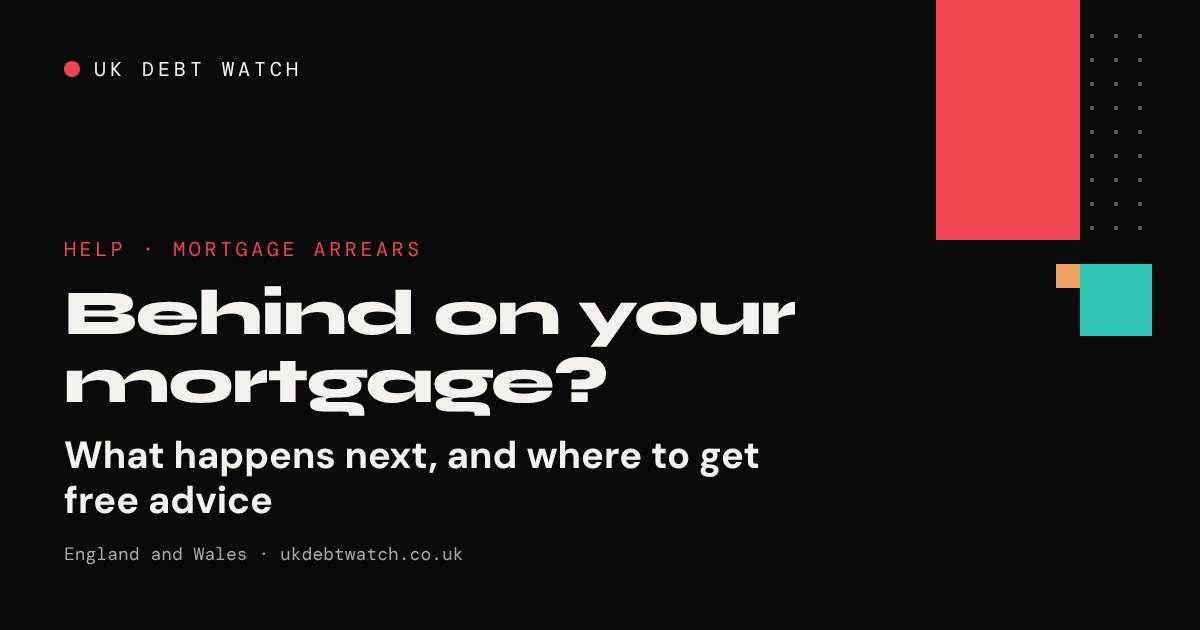
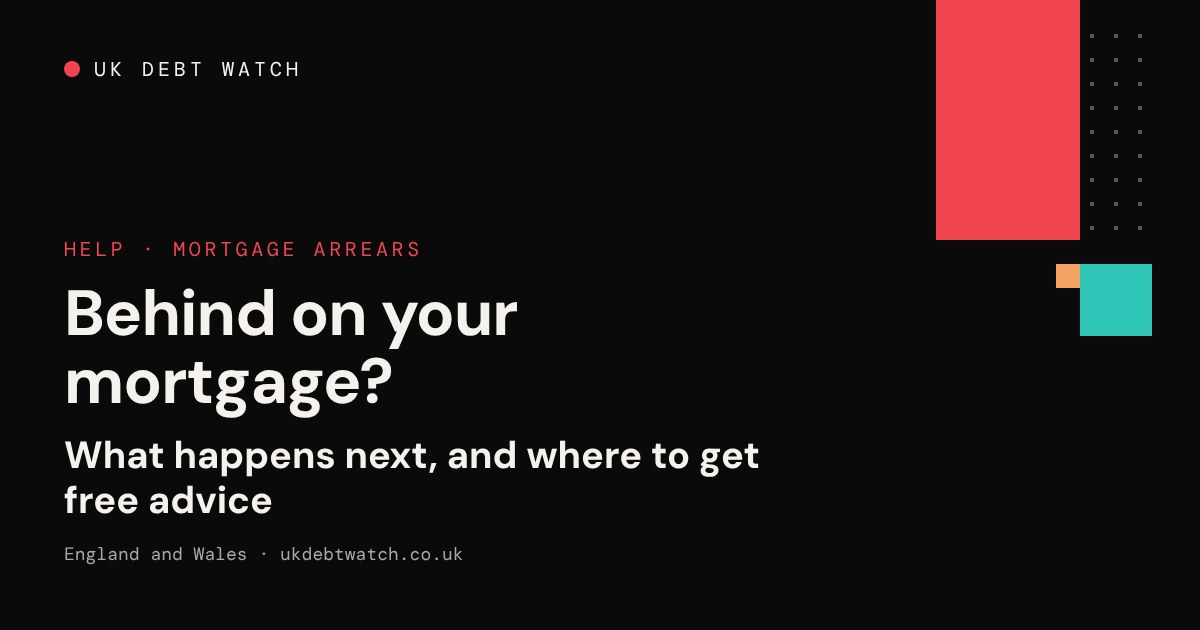
Reading pages: titles in DM Sans Bold instead of Syne
Syne 800 is too wide and heavy on the light reading pages (titles ran to
three lines). Reading pages and About/Contact/Privacy/404 now use DM Sans
700; Syne stays on the dark data pages. Help share image re-rendered.

Claude-Session: https://claude.ai/code/session_01PUZN8KSCxiFmz3TeaF9yF5

Changed region(s): [[0.0617, 0.4524, 0.6783, 0.6635]]

diff --git a/404.html b/404.html
@@ -47,7 +47,7 @@ html{-webkit-text-size-adjust:100%}
 body{margin:0;background:var(--ground);color:var(--ink);font-family:'DM Sans',system-ui,-apple-system,'Segoe UI',sans-serif;min-height:100vh;display:flex;flex-direction:column}
 main{width:100%;max-width:728px;margin:0 auto;padding:56px 24px 72px}
 .eyebrow{font-family:'DM Mono',ui-monospace,Menlo,monospace;font-size:13px;letter-spacing:.2em;text-transform:uppercase;color:var(--red-text);margin:0 0 16px}
-h1{font-family:Syne,'DM Sans',sans-serif;font-weight:800;font-size:44px;line-height:1.1;margin:0 0 20px;color:#111}
+h1{font-family:'DM Sans',system-ui,sans-serif;font-weight:700;font-size:44px;line-height:1.12;letter-spacing:-.015em;margin:0 0 20px;color:#111}
 .lede{font-size:20px;line-height:1.55;color:#3d3d3d;margin:0 0 20px}
 .byline{font-family:'DM Mono',ui-monospace,Menlo,monospace;font-size:13px;color:var(--ink-muted);border-bottom:1px solid var(--rule);padding-bottom:20px;margin:0 0 32px}
 h2{font-size:26px;line-height:1.25;font-weight:700;margin:40px 0 12px;color:#111}

diff --git a/about/index.html b/about/index.html
@@ -47,7 +47,7 @@ html{-webkit-text-size-adjust:100%}
 body{margin:0;background:var(--ground);color:var(--ink);font-family:'DM Sans',system-ui,-apple-system,'Segoe UI',sans-serif;min-height:100vh;display:flex;flex-direction:column}
 main{width:100%;max-width:728px;margin:0 auto;padding:56px 24px 72px}
 .eyebrow{font-family:'DM Mono',ui-monospace,Menlo,monospace;font-size:13px;letter-spacing:.2em;text-transform:uppercase;color:var(--red-text);margin:0 0 16px}
-h1{font-family:Syne,'DM Sans',sans-serif;font-weight:800;font-size:44px;line-height:1.1;margin:0 0 20px;color:#111}
+h1{font-family:'DM Sans',system-ui,sans-serif;font-weight:700;font-size:44px;line-height:1.12;letter-spacing:-.015em;margin:0 0 20px;color:#111}
 .lede{font-size:20px;line-height:1.55;color:#3d3d3d;margin:0 0 20px}
 .byline{font-family:'DM Mono',ui-monospace,Menlo,monospace;font-size:13px;color:var(--ink-muted);border-bottom:1px solid var(--rule);padding-bottom:20px;margin:0 0 32px}
 h2{font-size:26px;line-height:1.25;font-weight:700;margin:40px 0 12px;color:#111}

diff --git a/contact/index.html b/contact/index.html
@@ -47,7 +47,7 @@ html{-webkit-text-size-adjust:100%}
 body{margin:0;background:var(--ground);color:var(--ink);font-family:'DM Sans',system-ui,-apple-system,'Segoe UI',sans-serif;min-height:100vh;display:flex;flex-direction:column}
 main{width:100%;max-width:728px;margin:0 auto;padding:56px 24px 72px}
 .eyebrow{font-family:'DM Mono',ui-monospace,Menlo,monospace;font-size:13px;letter-spacing:.2em;text-transform:uppercase;color:var(--red-text);margin:0 0 16px}
-h1{font-family:Syne,'DM Sans',sans-serif;font-weight:800;font-size:44px;line-height:1.1;margin:0 0 20px;color:#111}
+h1{font-family:'DM Sans',system-ui,sans-serif;font-weight:700;font-size:44px;line-height:1.12;letter-spacing:-.015em;margin:0 0 20px;color:#111}
 .lede{font-size:20px;line-height:1.55;color:#3d3d3d;margin:0 0 20px}
 .byline{font-family:'DM Mono',ui-monospace,Menlo,monospace;font-size:13px;color:var(--ink-muted);border-bottom:1px solid var(--rule);padding-bottom:20px;margin:0 0 32px}
 h2{font-size:26px;line-height:1.25;font-weight:700;margin:40px 0 12px;color:#111}

diff --git a/privacy/index.html b/privacy/index.html
@@ -47,7 +47,7 @@ html{-webkit-text-size-adjust:100%}
 body{margin:0;background:var(--ground);color:var(--ink);font-family:'DM Sans',system-ui,-apple-system,'Segoe UI',sans-serif;min-height:100vh;display:flex;flex-direction:column}
 main{width:100%;max-width:728px;margin:0 auto;padding:56px 24px 72px}
 .eyebrow{font-family:'DM Mono',ui-monospace,Menlo,monospace;font-size:13px;letter-spacing:.2em;text-transform:uppercase;color:var(--red-text);margin:0 0 16px}
-h1{font-family:Syne,'DM Sans',sans-serif;font-weight:800;font-size:44px;line-height:1.1;margin:0 0 20px;color:#111}
+h1{font-family:'DM Sans',system-ui,sans-serif;font-weight:700;font-size:44px;line-height:1.12;letter-spacing:-.015em;margin:0 0 20px;color:#111}
 .lede{font-size:20px;line-height:1.55;color:#3d3d3d;margin:0 0 20px}
 .byline{font-family:'DM Mono',ui-monospace,Menlo,monospace;font-size:13px;color:var(--ink-muted);border-bottom:1px solid var(--rule);padding-bottom:20px;margin:0 0 32px}
 h2{font-size:26px;line-height:1.25;font-weight:700;margin:40px 0 12px;color:#111}

diff --git a/articles/index.html b/articles/index.html
@@ -344,7 +344,7 @@ a:focus-visible,button:focus-visible,summary:focus-visible{outline-color:#0e6f68
 .hero,.intro{background:transparent;border-bottom:0;text-align:left;max-width:776px;margin:0 auto;padding:56px 24px 8px;width:100%}
 .hero::before,.intro::before{display:none}
 .hero .eyebrow,.intro .eyebrow{font-family:'DM Mono',ui-monospace,Menlo,monospace;font-size:13px;letter-spacing:.2em;color:#b3262f;margin:0 0 16px}
-.hero h1,.intro h1,h1{font-family:Syne,'DM Sans',sans-serif;font-weight:800;font-size:44px;line-height:1.1;letter-spacing:0;color:#111;max-width:none;margin:0 0 20px;text-align:left}
+.hero h1,.intro h1,h1{font-family:'DM Sans',system-ui,sans-serif;font-weight:700;font-size:44px;line-height:1.12;letter-spacing:-.015em;color:#111;max-width:none;margin:0 0 20px;text-align:left}
 .hero h1 em,.intro h1 em{color:#b3262f}
 .lede,.intro p{font-size:20px;line-height:1.55;color:#3d3d3d;max-width:none;margin:0 0 16px;text-align:left}
 .intro p b{color:#111;font-weight:700}

diff --git a/billionaires-leaving-uk/index.html b/billionaires-leaving-uk/index.html
@@ -325,7 +325,7 @@ a:focus-visible,button:focus-visible,summary:focus-visible{outline-color:#0e6f68
 .hero,.intro{background:transparent;border-bottom:0;text-align:left;max-width:776px;margin:0 auto;padding:56px 24px 8px;width:100%}
 .hero::before,.intro::before{display:none}
 .hero .eyebrow,.intro .eyebrow{font-family:'DM Mono',ui-monospace,Menlo,monospace;font-size:13px;letter-spacing:.2em;color:#b3262f;margin:0 0 16px}
-.hero h1,.intro h1,h1{font-family:Syne,'DM Sans',sans-serif;font-weight:800;font-size:44px;line-height:1.1;letter-spacing:0;color:#111;max-width:none;margin:0 0 20px;text-align:left}
+.hero h1,.intro h1,h1{font-family:'DM Sans',system-ui,sans-serif;font-weight:700;font-size:44px;line-height:1.12;letter-spacing:-.015em;color:#111;max-width:none;margin:0 0 20px;text-align:left}
 .hero h1 em,.intro h1 em{color:#b3262f}
 .lede,.intro p{font-size:20px;line-height:1.55;color:#3d3d3d;max-width:none;margin:0 0 16px;text-align:left}
 .intro p b{color:#111;font-weight:700}

diff --git a/help/index.html b/help/index.html
@@ -246,7 +246,7 @@ a:focus-visible,button:focus-visible,summary:focus-visible{outline-color:#0e6f68
 .hero,.intro{background:transparent;border-bottom:0;text-align:left;max-width:776px;margin:0 auto;padding:56px 24px 8px;width:100%}
 .hero::before,.intro::before{display:none}
 .hero .eyebrow,.intro .eyebrow{font-family:'DM Mono',ui-monospace,Menlo,monospace;font-size:13px;letter-spacing:.2em;color:#b3262f;margin:0 0 16px}
-.hero h1,.intro h1,h1{font-family:Syne,'DM Sans',sans-serif;font-weight:800;font-size:44px;line-height:1.1;letter-spacing:0;color:#111;max-width:none;margin:0 0 20px;text-align:left}
+.hero h1,.intro h1,h1{font-family:'DM Sans',system-ui,sans-serif;font-weight:700;font-size:44px;line-height:1.12;letter-spacing:-.015em;color:#111;max-width:none;margin:0 0 20px;text-align:left}
 .hero h1 em,.intro h1 em{color:#b3262f}
 .lede,.intro p{font-size:20px;line-height:1.55;color:#3d3d3d;max-width:none;margin:0 0 16px;text-align:left}
 .intro p b{color:#111;font-weight:700}

diff --git a/uk-debt-interest/index.html b/uk-debt-interest/index.html
@@ -344,7 +344,7 @@ a:focus-visible,button:focus-visible,summary:focus-visible{outline-color:#0e6f68
 .hero,.intro{background:transparent;border-bottom:0;text-align:left;max-width:776px;margin:0 auto;padding:56px 24px 8px;width:100%}
 .hero::before,.intro::before{display:none}
 .hero .eyebrow,.intro .eyebrow{font-family:'DM Mono',ui-monospace,Menlo,monospace;font-size:13px;letter-spacing:.2em;color:#b3262f;margin:0 0 16px}
-.hero h1,.intro h1,h1{font-family:Syne,'DM Sans',sans-serif;font-weight:800;font-size:44px;line-height:1.1;letter-spacing:0;color:#111;max-width:none;margin:0 0 20px;text-align:left}
+.hero h1,.intro h1,h1{font-family:'DM Sans',system-ui,sans-serif;font-weight:700;font-size:44px;line-height:1.12;letter-spacing:-.015em;color:#111;max-width:none;margin:0 0 20px;text-align:left}
 .hero h1 em,.intro h1 em{color:#b3262f}
 .lede,.intro p{font-size:20px;line-height:1.55;color:#3d3d3d;max-width:none;margin:0 0 16px;text-align:left}
 .intro p b{color:#111;font-weight:700}

diff --git a/uk-debt-vs-other-countries/index.html b/uk-debt-vs-other-countries/index.html
@@ -344,7 +344,7 @@ a:focus-visible,button:focus-visible,summary:focus-visible{outline-color:#0e6f68
 .hero,.intro{background:transparent;border-bottom:0;text-align:left;max-width:776px;margin:0 auto;padding:56px 24px 8px;width:100%}
 .hero::before,.intro::before{display:none}
 .hero .eyebrow,.intro .eyebrow{font-family:'DM Mono',ui-monospace,Menlo,monospace;font-size:13px;letter-spacing:.2em;color:#b3262f;margin:0 0 16px}
-.hero h1,.intro h1,h1{font-family:Syne,'DM Sans',sans-serif;font-weight:800;font-size:44px;line-height:1.1;letter-spacing:0;color:#111;max-width:none;margin:0 0 20px;text-align:left}
+.hero h1,.intro h1,h1{font-family:'DM Sans',system-ui,sans-serif;font-weight:700;font-size:44px;line-height:1.12;letter-spacing:-.015em;color:#111;max-width:none;margin:0 0 20px;text-align:left}
 .hero h1 em,.intro h1 em{color:#b3262f}
 .lede,.intro p{font-size:20px;line-height:1.55;color:#3d3d3d;max-width:none;margin:0 0 16px;text-align:left}
 .intro p b{color:#111;font-weight:700}

diff --git a/who-owns-uk-debt/index.html b/who-owns-uk-debt/index.html
@@ -344,7 +344,7 @@ a:focus-visible,button:focus-visible,summary:focus-visible{outline-color:#0e6f68
 .hero,.intro{background:transparent;border-bottom:0;text-align:left;max-width:776px;margin:0 auto;padding:56px 24px 8px;width:100%}
 .hero::before,.intro::before{display:none}
 .hero .eyebrow,.intro .eyebrow{font-family:'DM Mono',ui-monospace,Menlo,monospace;font-size:13px;letter-spacing:.2em;color:#b3262f;margin:0 0 16px}
-.hero h1,.intro h1,h1{font-family:Syne,'DM Sans',sans-serif;font-weight:800;font-size:44px;line-height:1.1;letter-spacing:0;color:#111;max-width:none;margin:0 0 20px;text-align:left}
+.hero h1,.intro h1,h1{font-family:'DM Sans',system-ui,sans-serif;font-weight:700;font-size:44px;line-height:1.12;letter-spacing:-.015em;color:#111;max-width:none;margin:0 0 20px;text-align:left}
 .hero h1 em,.intro h1 em{color:#b3262f}
 .lede,.intro p{font-size:20px;line-height:1.55;color:#3d3d3d;max-width:none;margin:0 0 16px;text-align:left}
 .intro p b{color:#111;font-weight:700}

diff --git a/_tools/reading.py b/_tools/reading.py
@@ -22,7 +22,7 @@ a:focus-visible,button:focus-visible,summary:focus-visible{outline-color:#0e6f68
 .hero,.intro{background:transparent;border-bottom:0;text-align:left;max-width:776px;margin:0 auto;padding:56px 24px 8px;width:100%}
 .hero::before,.intro::before{display:none}
 .hero .eyebrow,.intro .eyebrow{font-family:'DM Mono',ui-monospace,Menlo,monospace;font-size:13px;letter-spacing:.2em;color:#b3262f;margin:0 0 16px}
-.hero h1,.intro h1,h1{font-family:Syne,'DM Sans',sans-serif;font-weight:800;font-size:44px;line-height:1.1;letter-spacing:0;color:#111;max-width:none;margin:0 0 20px;text-align:left}
+.hero h1,.intro h1,h1{font-family:'DM Sans',system-ui,sans-serif;font-weight:700;font-size:44px;line-height:1.12;letter-spacing:-.015em;color:#111;max-width:none;margin:0 0 20px;text-align:left}
 .hero h1 em,.intro h1 em{color:#b3262f}
 .lede,.intro p{font-size:20px;line-height:1.55;color:#3d3d3d;max-width:none;margin:0 0 16px;text-align:left}
 .intro p b{color:#111;font-weight:700}
